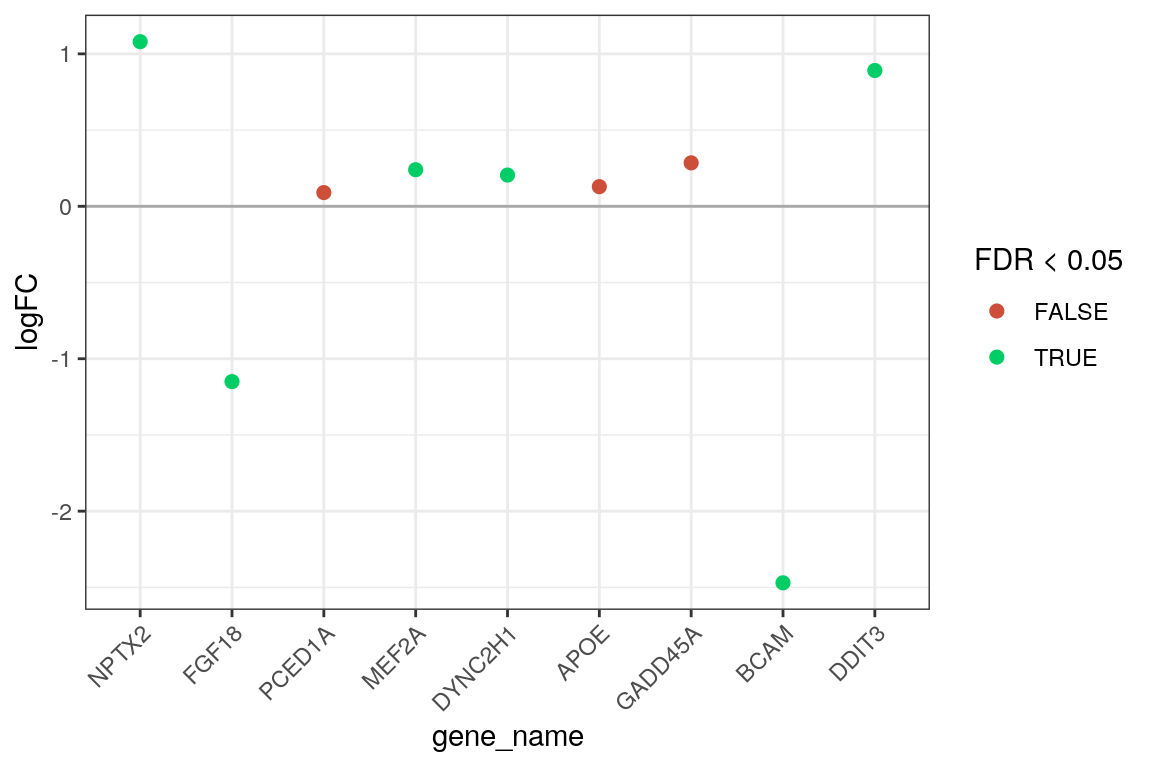
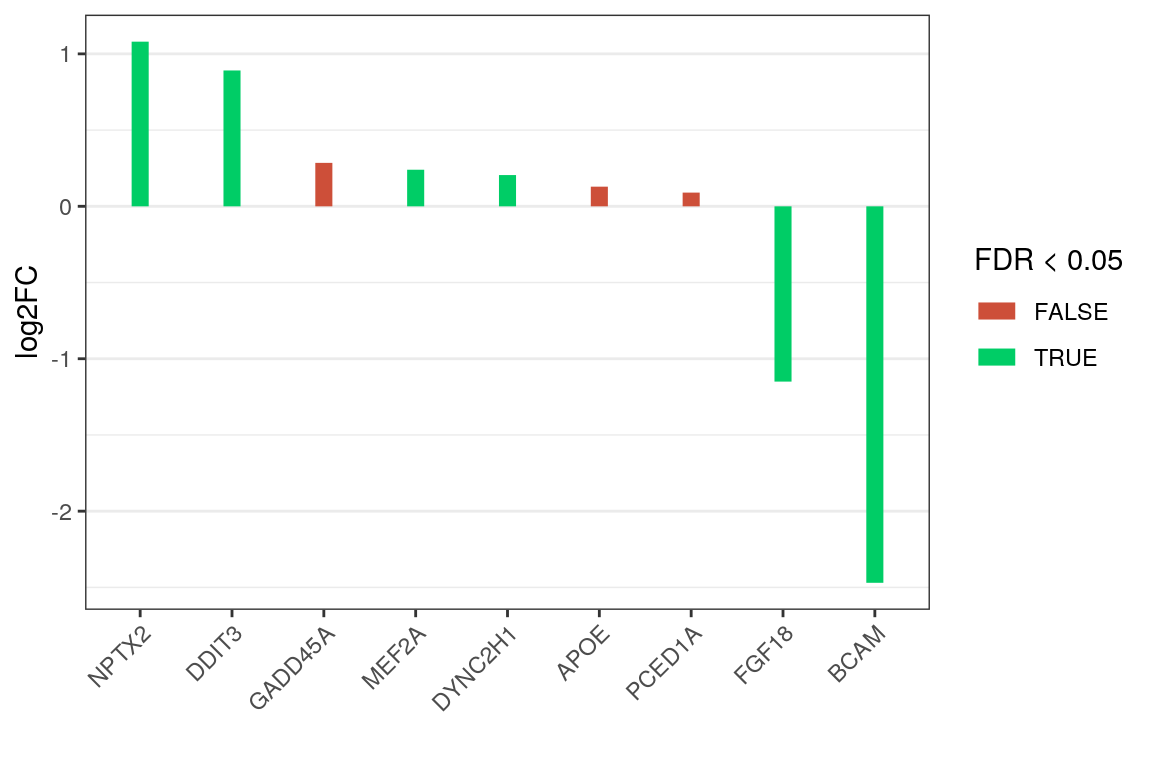
Build site.

diff --git a/docs/TDP-07-03-Liu_sorted_nuclei_marker_expression.html b/docs/TDP-07-03-Liu_sorted_nuclei_marker_expression.html
@@ -412,7 +412,7 @@ div.tocify {
 <div class="tab-content">
 <div id="summary" class="tab-pane fade in active">
 <p>
-<strong>Last updated:</strong> 2021-07-12
+<strong>Last updated:</strong> 2021-07-13
 </p>
 <p>
 <strong>Checks:</strong> <span class="glyphicon glyphicon-ok text-success" aria-hidden="true"></span> 7 <span class="glyphicon glyphicon-exclamation-sign text-danger" aria-hidden="true"></span> 0
@@ -503,16 +503,16 @@ This reproducible <a href="http://rmarkdown.rstudio.com">R Markdown</a> analysis
 <div class="panel panel-default">
 <div class="panel-heading">
 <p class="panel-title">
-<a data-toggle="collapse" data-parent="#workflowr-checks" href="#strongRepositoryversionstrongahrefhttpsgithubcomkhembachneuralscRNAseqtree965e8174f5c7b2a75352ce295b7e73379d69d6edtargetblank965e817a"> <span class="glyphicon glyphicon-ok text-success" aria-hidden="true"></span> <strong>Repository version:</strong> <a href="https://github.com/khembach/neural_scRNAseq/tree/965e8174f5c7b2a75352ce295b7e73379d69d6ed" target="_blank">965e817</a> </a>
+<a data-toggle="collapse" data-parent="#workflowr-checks" href="#strongRepositoryversionstrongahrefhttpsgithubcomkhembachneuralscRNAseqtreedc892b22a738ee4d54ff929813c4198825fb01a3targetblankdc892b2a"> <span class="glyphicon glyphicon-ok text-success" aria-hidden="true"></span> <strong>Repository version:</strong> <a href="https://github.com/khembach/neural_scRNAseq/tree/dc892b22a738ee4d54ff929813c4198825fb01a3" target="_blank">dc892b2</a> </a>
 </p>
 </div>
[2 lines of base64/hex data omitted]
 <div class="panel-body">
 <p>
 Great! You are using Git for version control. Tracking code development and connecting the code version to the results is critical for reproducibility.
 </p>
 <p>
-The results in this page were generated with repository version <a href="https://github.com/khembach/neural_scRNAseq/tree/965e8174f5c7b2a75352ce295b7e73379d69d6ed" target="_blank">965e817</a>. See the <em>Past versions</em> tab to see a history of the changes made to the R Markdown and HTML files.
+The results in this page were generated with repository version <a href="https://github.com/khembach/neural_scRNAseq/tree/dc892b22a738ee4d54ff929813c4198825fb01a3" target="_blank">dc892b2</a>. See the <em>Past versions</em> tab to see a history of the changes made to the R Markdown and HTML files.
 </p>
 <p>
 Note that you need to be careful to ensure that all relevant files for the analysis have been committed to Git prior to generating the results (you can use <code>wflow_publish</code> or <code>wflow_git_commit</code>). workflowr only checks the R Markdown file, but you know if there are other scripts or data files that it depends on. Below is the status of the Git repository when the results were generated:
@@ -794,6 +794,7 @@ Ignored files:
     Ignored:    scripts/._prepare_salmon_transcripts_cell_hashing_test.R
 
 Untracked files:
+    Untracked:  = gene_name[order(logFC, 
     Untracked:  Filtered.pdf
     Untracked:  Rplots.pdf
     Untracked:  Unfiltered
@@ -884,6 +885,40 @@ Message
 </tr>
 </thead>
 <tbody>
+<tr>
+<td>
+Rmd
+</td>
+<td>
+<a href="https://github.com/khembach/neural_scRNAseq/blob/dc892b22a738ee4d54ff929813c4198825fb01a3/analysis/TDP-07-03-Liu_sorted_nuclei_marker_expression.Rmd" target="_blank">dc892b2</a>
+</td>
+<td>
+khembach
+</td>
+<td>
+2021-07-13
+</td>
+<td>
+barplot instead of points
+</td>
+</tr>
+<tr>
+<td>
+html
+</td>
+<td>
+<a href="https://rawcdn.githack.com/khembach/neural_scRNAseq/be3be06360971a902f8550048df4e7f27b1d9b06/docs/TDP-07-03-Liu_sorted_nuclei_marker_expression.html" target="_blank">be3be06</a>
+</td>
+<td>
+khembach
+</td>
+<td>
+2021-07-12
+</td>
+<td>
+Build site.
+</td>
+</tr>
 <tr>
 <td>
 Rmd
@@ -2297,24 +2332,108 @@ khembach
 <h1>LogFC of all markers</h1>
 <pre class="r"><code># up
 edgeR_res %&gt;% dplyr::filter(gene_name %in%  markers[[&quot;up&quot;]]) %&gt;%
-  dplyr::mutate(gene_name = factor(gene_name, levels = markers[[&quot;up&quot;]])) %&gt;%
-  ggplot(aes(x = gene_name, y = logFC, color = FDR&lt;0.05)) + 
-  geom_hline(yintercept = 0, color = &quot;darkgrey&quot;)  + 
-  geom_point(size = 2) + 
-  theme_bw() + 
-  theme(axis.text.x = element_text(angle = 45, vjust = 1, hjust=1)) +
-  scale_color_manual(values = c(&quot;tomato3&quot;, &quot;springgreen3&quot;))</code></pre>
+  dplyr::mutate(gene_name = factor(gene_name, 
+                                   levels = gene_name[order(logFC, 
+                                                      decreasing = TRUE)])) %&gt;%
+  ggplot(aes(x=gene_name, y=logFC)) +
+    geom_segment(aes(x=gene_name, xend=gene_name, y=0, yend=logFC, 
+                     color=FDR&lt;0.05), size = 3) +
+    theme_bw() +
+    theme(panel.grid.major.x = element_blank()) +
+    xlab(&quot;&quot;) +
+    ylab(&quot;log2FC&quot;) +
+    scale_color_manual(values = c(&quot;tomato3&quot;, &quot;springgreen3&quot;)) +
+    theme(axis.text.x = element_text(angle = 45, vjust = 1, hjust=1))</code></pre>
 <p><img src="figure/TDP-07-03-Liu_sorted_nuclei_marker_expression.Rmd/all-markers-logFC-1.png" width="576" style="display: block; margin: auto;" /></p>
-<pre class="r"><code>#down
+<p>
+<button type="button" class="btn btn-default btn-xs btn-workflowr btn-workflowr-fig" data-toggle="collapse" data-target="#fig-all-markers-logFC-1">
+Past versions of all-markers-logFC-1.png
+</button>
+</p>
+<div id="fig-all-markers-logFC-1" class="collapse">
+<div class="table-responsive">
+<table class="table table-condensed table-hover">
+<thead>
+<tr>
+<th>
+Version
+</th>
+<th>
+Author
+</th>
+<th>
+Date
+</th>
+</tr>
+</thead>
+<tbody>
+<tr>
+<td>
+<a href="https://github.com/khembach/neural_scRNAseq/blob/be3be06360971a902f8550048df4e7f27b1d9b06/docs/figure/TDP-07-03-Liu_sorted_nuclei_marker_expression.Rmd/all-markers-logFC-1.png" target="_blank">be3be06</a>
+</td>
+<td>
+khembach
+</td>
+<td>
+2021-07-12
+</td>
+</tr>
+</tbody>
+</table>
+</div>
+</div>
+<pre class="r"><code># down
 edgeR_res %&gt;% dplyr::filter(gene_name %in%  markers[[&quot;down&quot;]]) %&gt;%
-  dplyr::mutate(gene_name = factor(gene_name, levels = markers[[&quot;down&quot;]])) %&gt;%
-  ggplot(aes(x = gene_name, y = logFC, color = FDR&lt;0.05)) + 
-  geom_hline(yintercept = 0, color = &quot;darkgrey&quot;)  + 
-  geom_point(size = 2) + 
-  theme_bw() + 
-  theme(axis.text.x = element_text(angle = 45, vjust = 1, hjust=1)) +
-  scale_color_manual(values = c(&quot;tomato3&quot;, &quot;springgreen3&quot;))</code></pre>
+  dplyr::mutate(gene_name = factor(gene_name, 
+                                   levels = gene_name[order(logFC, 
+                                                      decreasing = FALSE)])) %&gt;%
+  ggplot(aes(x=gene_name, y=logFC)) +
+    geom_segment(aes(x=gene_name, xend=gene_name, y=0, yend=logFC, 
+                     color=FDR&lt;0.05), size = 3) +
+    theme_bw() +
+    theme(panel.grid.major.x = element_blank()) +
+    xlab(&quot;&quot;) +
+    ylab(&quot;log2FC&quot;) +
+    scale_color_manual(values = c(&quot;tomato3&quot;, &quot;springgreen3&quot;)) +
+    theme(axis.text.x = element_text(angle = 45, vjust = 1, hjust=1))</code></pre>
 <p><img src="figure/TDP-07-03-Liu_sorted_nuclei_marker_expression.Rmd/all-markers-logFC-2.png" width="576" style="display: block; margin: auto;" /></p>
+<p>
+<button type="button" class="btn btn-default btn-xs btn-workflowr btn-workflowr-fig" data-toggle="collapse" data-target="#fig-all-markers-logFC-2">
+Past versions of all-markers-logFC-2.png
+</button>
+</p>
+<div id="fig-all-markers-logFC-2" class="collapse">
+<div class="table-responsive">
+<table class="table table-condensed table-hover">
+<thead>
+<tr>
+<th>
+Version
+</th>
+<th>
+Author
+</th>
+<th>
+Date
+</th>
+</tr>
+</thead>
+<tbody>
+<tr>
+<td>
+<a href="https://github.com/khembach/neural_scRNAseq/blob/be3be06360971a902f8550048df4e7f27b1d9b06/docs/figure/TDP-07-03-Liu_sorted_nuclei_marker_expression.Rmd/all-markers-logFC-2.png" target="_blank">be3be06</a>
+</td>
+<td>
+khembach
+</td>
+<td>
+2021-07-12
+</td>
+</tr>
+</tbody>
+</table>
+</div>
+</div>
 <br>
 <p>
 <button type="button" class="btn btn-default btn-workflowr btn-workflowr-sessioninfo" data-toggle="collapse" data-target="#workflowr-sessioninfo" style="display: block;">
